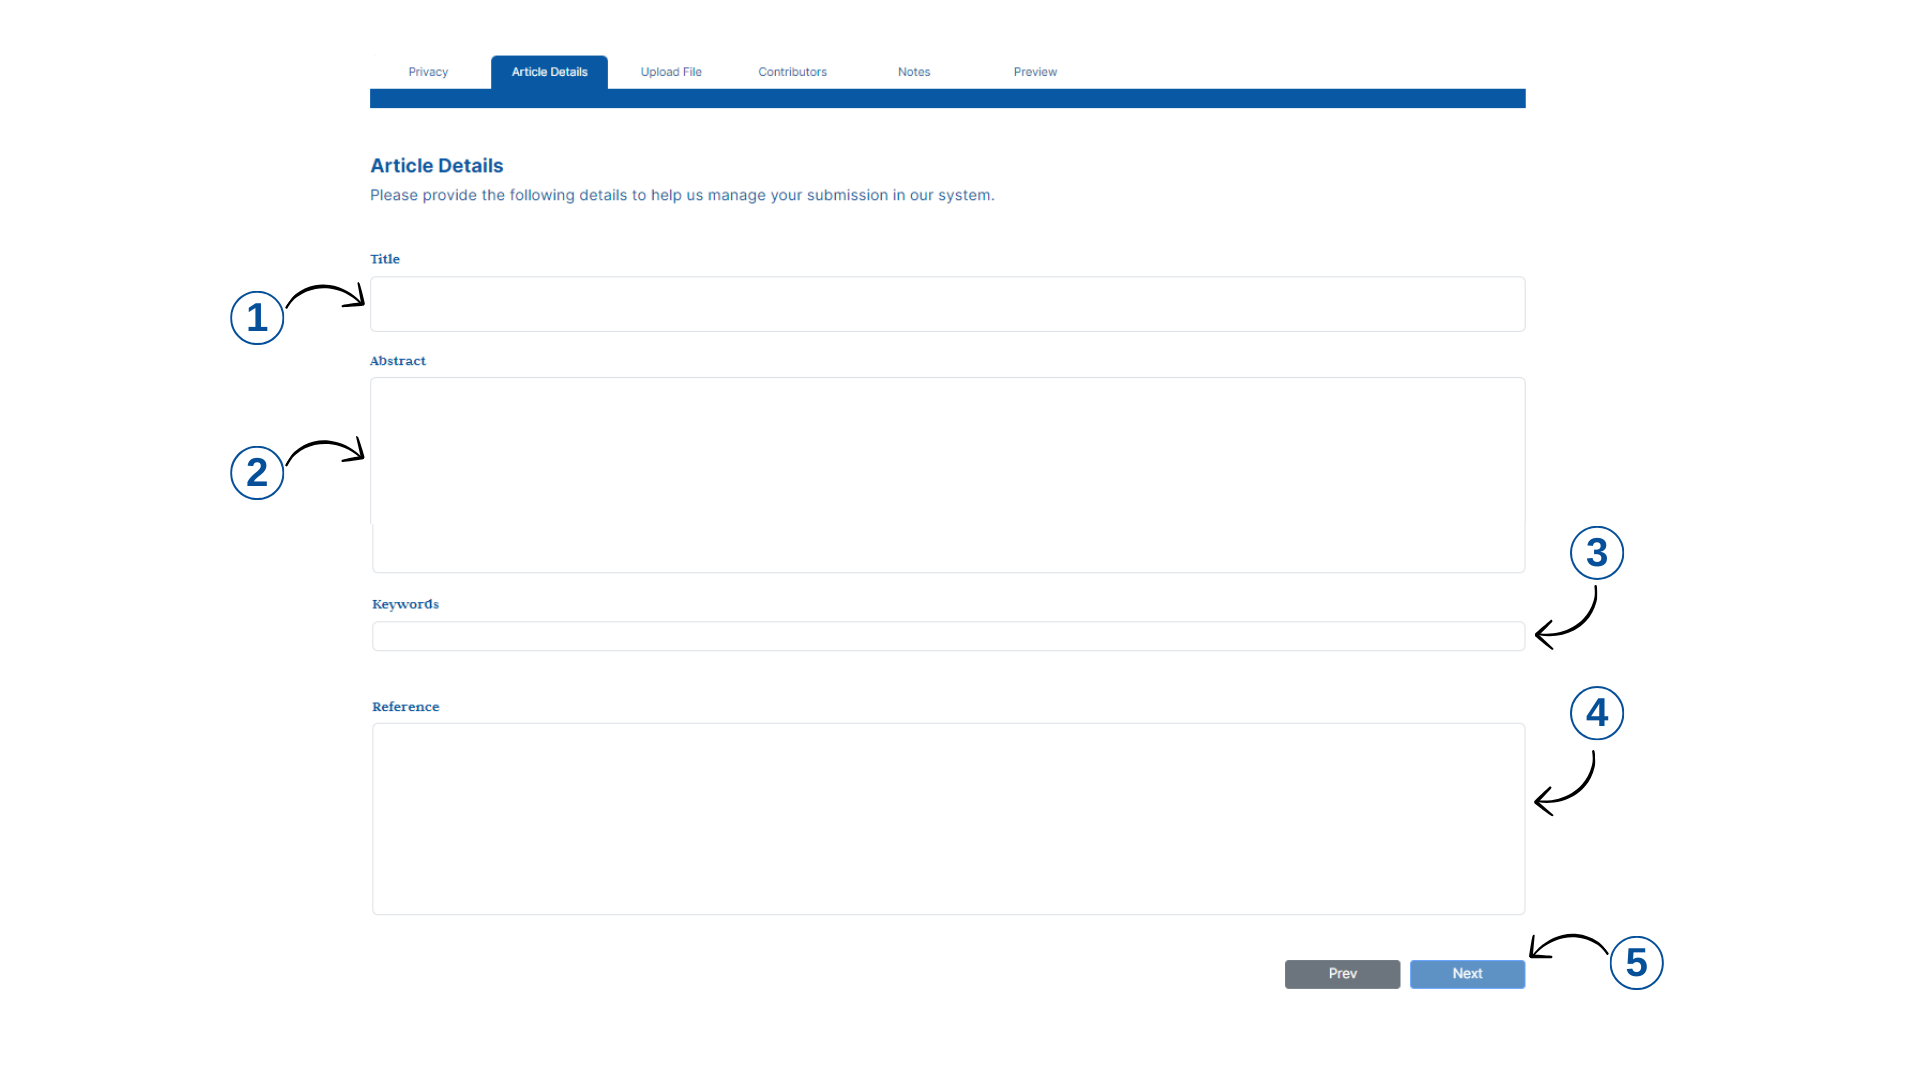
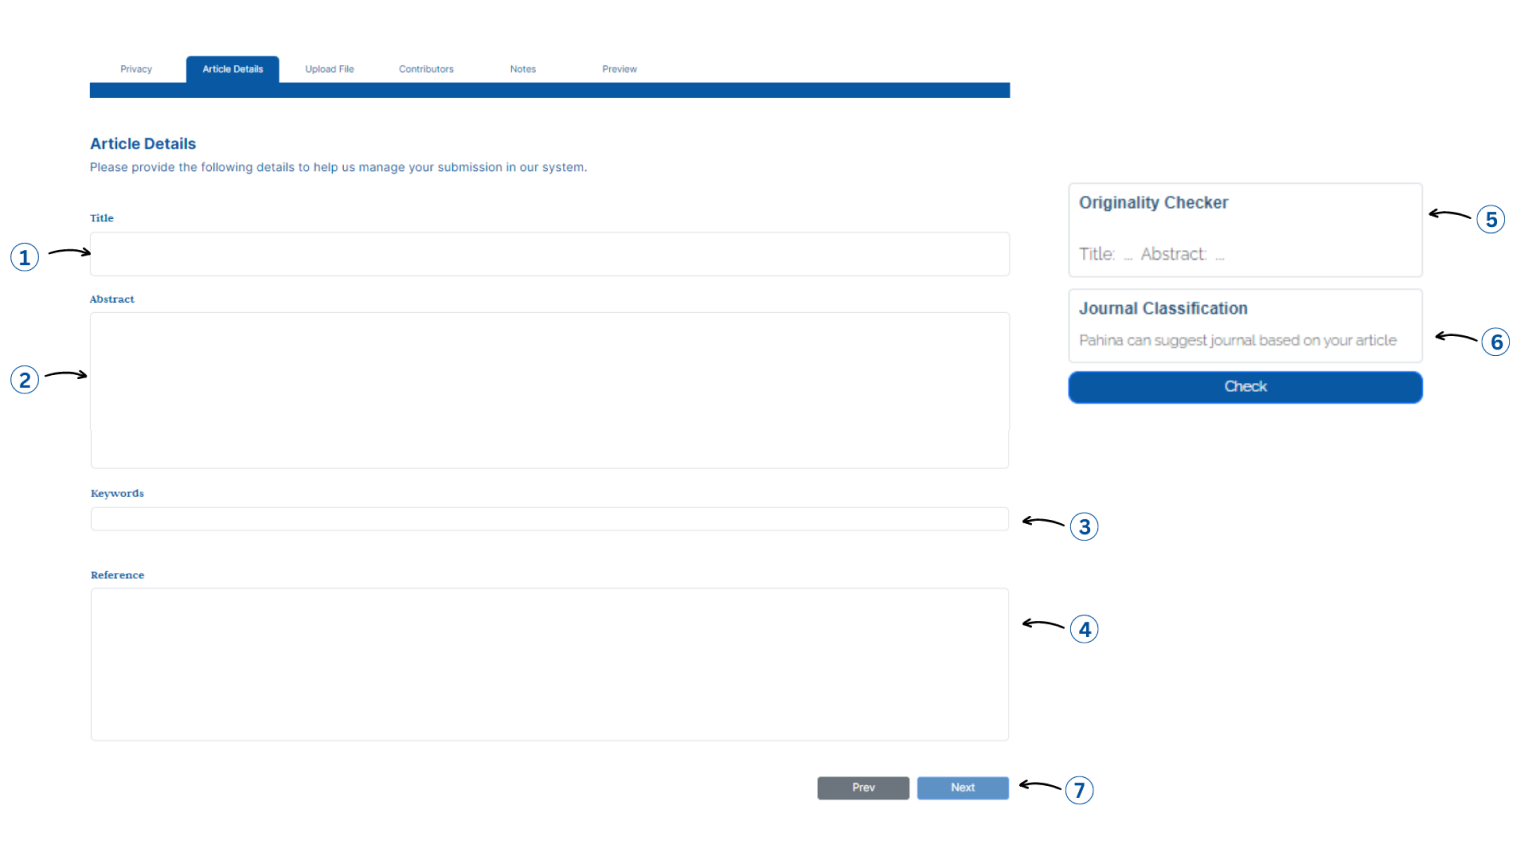
update and change the tutorials.php

diff --git a/PHP/tutorials.php b/PHP/tutorials.php
@@ -54,7 +54,7 @@ $author_id = isset($_SESSION['id']) ? $_SESSION['id'] : 0;
             </div>           
         </aside>
 
-        <div class="main" id="tutorial-on-publication-container" style="display: none;">
+        <div class="main" id="tutorial-on-publication-container" >
             <div class="header">
                 <h2>Tutorial on Publication</h2>
             </div>
@@ -77,10 +77,35 @@ $author_id = isset($_SESSION['id']) ? $_SESSION['id'] : 0;
                     <img src="../images/Registration.png" alt="" class="img-reg">
                 </div>
                 <div class="s-2">
-                    <h3>Making a Submission</h3>
+                    <h3>Logging in to  Pahina website.</h3>
                     <p>After completing the registration, log in to your account.</p>
-                    <p>Once you are logged in, click on 'Be a Contributor' to begin the process of submitting your articles.</p>
-                    <img src="../images/Submission.png" alt="" class="img-sub">
+                    <ol type="1">
+                        <li> Write your Email.</li>
+                        <li>next is your password.</li>
+                        <li>If it’s your first time to login, You need to input the OTP code that has sent to your Gmail.</li>
+                        <li>When you are done just click ‘Verify’ to proceed.</li>
+                    </ol>
+                    <img src="../images/login.png" alt="" class="img-reg">
+                </div>
+                <div class="s-2">
+                    <h3>Complete your Personal Information.</h3>
+                    <p>The user must complete all the information before they can Publish or Submit a paper.</p>
+                    <ol type="1">
+                        <li> Go to your profile.</li>
+                        <li>Click then icon to edit your Information.</li>
+                        <li>Complete all the missing information about you.</li>
+                        <li>Click save if you are done.</li>
+                    </ol>
+                    <img src="../images/Profile.png" alt="" class="img-reg">
+                </div>
+                <div class="s-2">
+                    <h3>Submit a Paper</h3>
+                    <p>Begin your publication journey by click</p>
+                    <ol type="1">
+                        <li>Look for a button where you can read ‘Submit an Article’</li>
+                        <li>Click the Button to proceed.</li>
+                    </ol>
+                    <img src="../images/submit.png" alt="" class="img-reg">
                 </div>
                 <div class="s-2">
                     <h3>Step 1: Privacy</h3>
@@ -101,7 +126,9 @@ $author_id = isset($_SESSION['id']) ? $_SESSION['id'] : 0;
                         <li>Abstract - Summarize your article's key points briefly.</li>
                         <li>Keywords - List relevant keywords for searchability.</li>
                         <li>Reference - Provide a list of sources following the required citation style.</li>
-                        <li>After you fill all the necessary information for your article, click the ‘Next’ button and proceed to the next step.</li>
+                        <li>Originality Checker: This will automatically show up after you fill in all the needed information. This checker will make sure that this article is unique.</li>
+                        <li>Journal classification- this will determine what type of journal your article is in. It's either the lamp, the star, or the gavel.</li>
+                        <li>After you fill all the necessary information for your article, click the ‘Next’ button and proceed to the next step</li>
                     </ol>
                     <img src="../images/step2.png" alt="" class="img-reg">
                 </div>
@@ -143,6 +170,14 @@ $author_id = isset($_SESSION['id']) ? $_SESSION['id'] : 0;
                         <li>When you are done, you can click the ‘Submit’ button below.</li>
                     </ol>
                     <img src="../images/step6.png" alt="" class="img-reg">
+                </div>
+                <div class="s-2">
+                    <h3>Author’s view.</h3>
+                    <p>Author’s view of their Contributions.</p>
+                    <ol type="1">
+                        <li>Click ‘All Submissions’ to see your submitted article as well as its status, date, and which journal it was submitted to</li>
+                    </ol>
+                    <img src="../images/authorsview.png" alt="" class="img-reg">
                 </div>
             </div>
     	</div>
